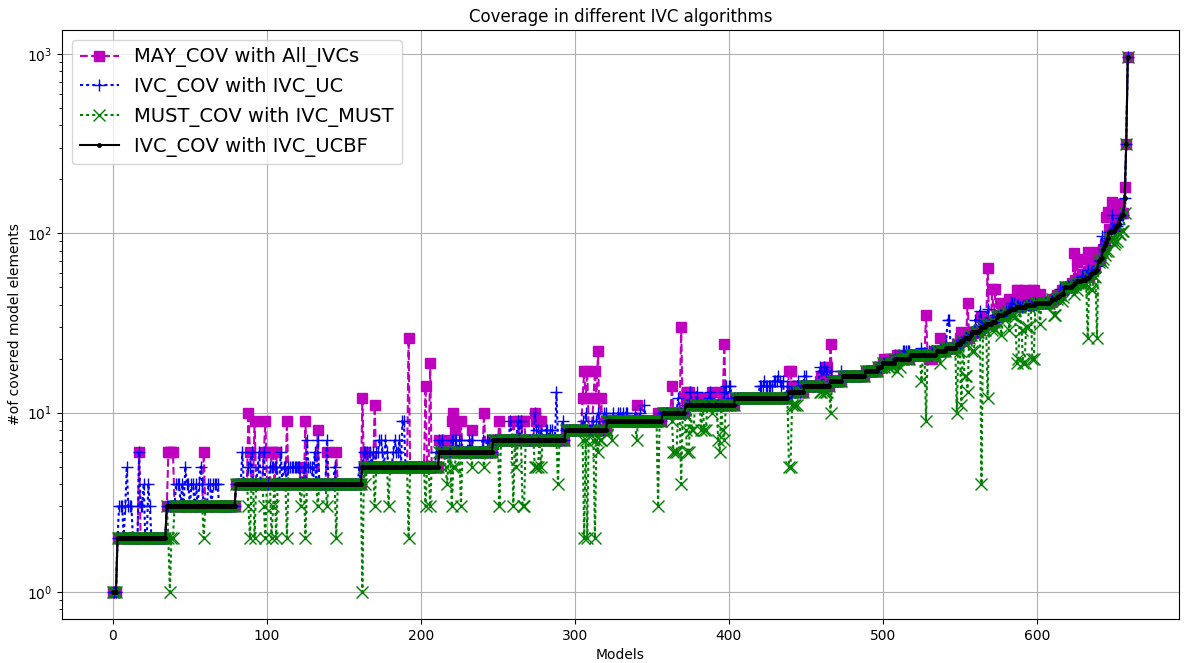
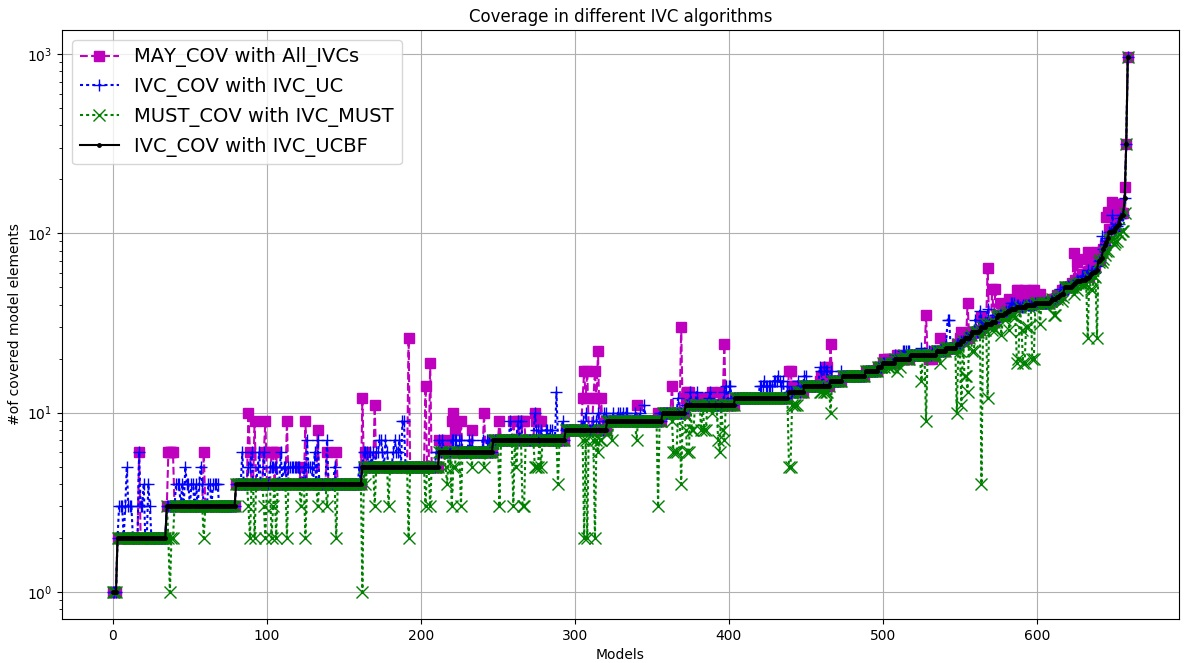
final submission

diff --git a/TSE/TSE_TEX/main.tex b/TSE/TSE_TEX/main.tex
@@ -248,18 +248,18 @@ This work was sponsored by the DARPA Systems of Systems Integration Technology a
 \bibliographystyle{IEEEtran}
 \bibliography{biblio}
 
-\begin{IEEEbiography}[{\includegraphics[width=1in,height=1.25in,clip,keepaspectratio]{figs/ela.jpg}}]{Elaheh Ghassabani}
-Elaheh Ghassabani is a Ph.D. graduate from the Department of Computer Science and Engineering, University of Minnesota- Twin Cities. She worked as a research assistant in the Critical Systems Research Group with Dr. Michael W. Whalen and Professor Mats Heimdahl.
+\begin{IEEEbiography}[{\includegraphics[width=1in,height=1.25in,clip,keepaspectratio]{figs/ela.png}}]{Elaheh Ghassabani}
+Elaheh Ghassabani is a Ph.D. candidate in the Department of Computer Science and Engineering, University of Minnesota-Twin Cities. She is a member of the Critical Systems Research Group working with Professor Mats Heimdahl and Dr. Michael W. Whalen.
 
 Elaheh received both her B.S. and M.S. degrees in Computer Engineering from the Iran University of Science \& Technology. Her research interests are in model checking, formal methods, compositional verification, model-based development, and large-scale verification techniques.
 
 \end{IEEEbiography}
 
-\begin{IEEEbiography}[{\includegraphics[width=1in,height=1.25in,clip,keepaspectratio]{figs/mw.jpg}}]{Michael Whalen}
+\begin{IEEEbiography}[{\includegraphics[width=1in,height=1.25in,clip,keepaspectratio]{figs/mw.png}}]{Michael Whalen}
 Michael Whalen is the Director of the University of Minnesota Software Engineering Center and a consultant for Rockwell Collins, Inc.  Dr. Whalen is interested in formal analysis, language translation, testing, and requirements engineering.  He has developed simulation, translation, testing, and formal analysis tools for Model-Based Development languages including Simulink, Stateflow, and SCADE, and has published more than 60 papers on these topics.  He has led successful formal verification projects on large industrial avionics models, including displays (Rockwell-Collins ADGS-2100 Window Manager), redundancy management and control allocation (AFRL CerTA FCS program) and autoland (AFRL CerTA CPD program).  He has recently been researching tools and techniques for scalable compositional analysis, testing and system image generation from system architectural models for quadcopters and autonomous helicopters.
 \end{IEEEbiography}
 
-\begin{IEEEbiography}[{\includegraphics[width=1in,height=1.25in,clip,keepaspectratio]{figs/andrew.jpg}}]{Andrew Gacek}
+\begin{IEEEbiography}[{\includegraphics[width=1in,height=1.25in,clip,keepaspectratio]{figs/andrew.png}}]{Andrew Gacek}
 Andrew Gacek is a Principal Industrial Logician in the Rockwell
 Collins Advanced Technology Center. Andrew has a B.S. in Mathematics
 and Computer Science from the University of Nebraska at Omaha, and
@@ -273,7 +273,7 @@ include formal logic, language translation, software design, operating
 systems, and embedded systems.
 \end{IEEEbiography}
 
-\begin{IEEEbiography}[{\includegraphics[width=1in,height=1.25in,clip,keepaspectratio]{figs/mats.jpg}}]{Mats Heimdahl}
+\begin{IEEEbiography}[{\includegraphics[width=1in,height=1.25in,clip,keepaspectratio]{figs/mats.png}}]{Mats Heimdahl}
 Mats Heimdahl is the Department Head and a Professor of Computer Science and Engineering at the University of Minnesota. He earned an M.S. in Computer Science and Engineering from the Royal Institute of Technology (KTH) in Stockholm, Sweden and a Ph.D. in Information and Computer Science from the University of California at Irvine.
 
 His research interests are in software engineering, safety critical systems, software safety, testing, requirements engineering, formal specification languages, and automated analysis of specifications.

diff --git a/TSE/TSE_TEX/results.tex b/TSE/TSE_TEX/results.tex
@@ -8,7 +8,7 @@ experimental results to address the research questions defined in the experiment
 \begin{figure}
  \centering
  % \includegraphics[width=0.8\textwidth]{figs/performance.jpg}
-  \includegraphics[width=\columnwidth]{figs/performance.jpg}
+  \includegraphics[width=\columnwidth]{figs/performance.png}
   \vspace{-0.1in}
   \caption{Runtime of \aivcalg, \ucbfalg, and \ucalg ~algorithms}
   \label{fig:performance}
@@ -144,7 +144,7 @@ Our approach is limited by the capabilities of the SMT solvers and inductive mod
 
  \begin{figure*}
  \centering
-  \includegraphics[width=0.8\textwidth]{figs/size.jpg}
+  \includegraphics[width=0.8\textwidth]{figs/size.png}
   %\vspace{-0.1in}
   \caption{Runtime of different computations along with the number of MIVCs}
   \vspace{0.1in}
@@ -154,7 +154,7 @@ Our approach is limited by the capabilities of the SMT solvers and inductive mod
 
 \begin{figure*}
   \centering
-  \includegraphics[width=0.8\textwidth]{figs/min.jpg}
+  \includegraphics[width=0.8\textwidth]{figs/min.png}
   \vspace{-0.2in}
   \caption{Size of the IVC sets produced by different algorithms}
   %\vspace{-0.2in}

diff --git a/TSE/TSE_TEX/coverage.tex b/TSE/TSE_TEX/coverage.tex
@@ -245,7 +245,7 @@ the \mustcov\ computation imposes an average 4183\% runtime overhead on the veri
 \iffalse
 \begin{figure}
   \centering
-  \includegraphics[width=\columnwidth]{figs/timing_cv.jpg}
+  \includegraphics[width=\columnwidth]{figs/timing_cv.png}
   %\vspace{-0.2in}
   \caption{Runtime of different analyses}\label{fig:runtimeall}
 \end{figure}
@@ -253,7 +253,7 @@ the \mustcov\ computation imposes an average 4183\% runtime overhead on the veri
 
 \begin{figure}
   \centering
-  \includegraphics[width=\columnwidth]{figs/cv_size.jpg}
+  \includegraphics[width=\columnwidth]{figs/cv_size.png}
   %\vspace{-0.2in}
   \caption{Size of the set of covered elements by different algorithms}\label{fig:cvsize}
 \end{figure}

diff --git a/TSE/TSE_TEX/ivc.tex b/TSE/TSE_TEX/ivc.tex
@@ -97,7 +97,7 @@ do not affect the satisfaction of $P$.  For comparison, note that a backwards st
 
 \begin{figure}[t]
  \centering
-  \includegraphics[width=0.9\columnwidth]{figs/ivcs.jpg}
+  \includegraphics[width=0.9\columnwidth]{figs/ivcs.png}
   \vspace{-0.1in}
   \caption{Graphical representation of \mivc s for the model in Fig.~\ref{fig:asw}
   with  $P = ({\small \texttt{on\_p}})$}

diff --git a/TSE/TSE_TEX/example.tex b/TSE/TSE_TEX/example.tex
@@ -13,7 +13,7 @@
 %% We put the image here so it shows up side-by-side with fig:ex-after
 \begin{figure}
 \centering
-\includegraphics[width=0.9\columnwidth]{figs/code.jpg}
+\includegraphics[width=0.9\columnwidth]{figs/code.png}
 \vspace{-0.1in}
 \caption{Altitude Switch Model }
 \label{fig:asw}
